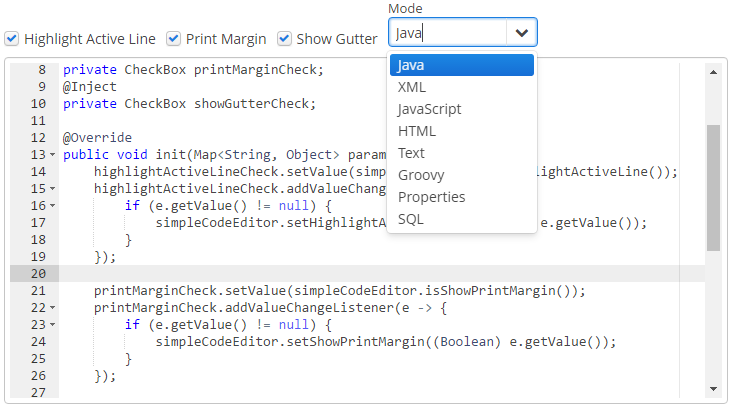
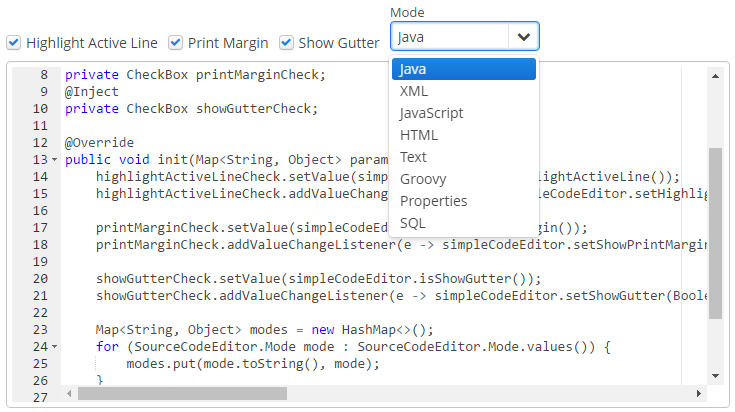
PLD-222 Document SourceCodeEditor + platform-doc/review/PD-CR-28

Changed region(s): [[0.0, 0.0, 1.0, 1.0]]

diff --git a/content/manual/source/gui_vcl/sourceCodeEditor_2.java b/content/manual/source/gui_vcl/sourceCodeEditor_2.java
@@ -12,25 +12,13 @@ private CheckBox showGutterCheck;
 @Override
 public void init(Map<String, Object> params) {
     highlightActiveLineCheck.setValue(simpleCodeEditor.isHighlightActiveLine());
-    highlightActiveLineCheck.addValueChangeListener(e -> {
-        if (e.getValue() != null) {
-            simpleCodeEditor.setHighlightActiveLine((Boolean) e.getValue());
-        }
-    });
+    highlightActiveLineCheck.addValueChangeListener(e -> simpleCodeEditor.setHighlightActiveLine(Boolean.TRUE.equals(e.getValue())));
 
     printMarginCheck.setValue(simpleCodeEditor.isShowPrintMargin());
-    printMarginCheck.addValueChangeListener(e -> {
-        if (e.getValue() != null) {
-            simpleCodeEditor.setShowPrintMargin((Boolean) e.getValue());
-        }
-    });
+    printMarginCheck.addValueChangeListener(e -> simpleCodeEditor.setShowPrintMargin(Boolean.TRUE.equals(e.getValue())));
 
     showGutterCheck.setValue(simpleCodeEditor.isShowGutter());
-    showGutterCheck.addValueChangeListener(e -> {
-        if (e.getValue() != null) {
-            simpleCodeEditor.setShowGutter((Boolean) e.getValue());
-        }
-    });
+    showGutterCheck.addValueChangeListener(e -> simpleCodeEditor.setShowGutter(Boolean.TRUE.equals(e.getValue())));
 
     Map<String, Object> modes = new HashMap<>();
     for (SourceCodeEditor.Mode mode : SourceCodeEditor.Mode.values()) {
@@ -39,9 +27,5 @@ public void init(Map<String, Object> params) {
 
     modeField.setOptionsMap(modes);
     modeField.setValue(SourceCodeEditor.Mode.Text);
-    modeField.addValueChangeListener(e -> {
-        if (e.getValue() != null) {
-            simpleCodeEditor.setMode((SourceCodeEditor.Mode) e.getValue());
-        }
-    });
+    modeField.addValueChangeListener(e -> simpleCodeEditor.setMode((SourceCodeEditor.Mode) e.getValue()));
 }
